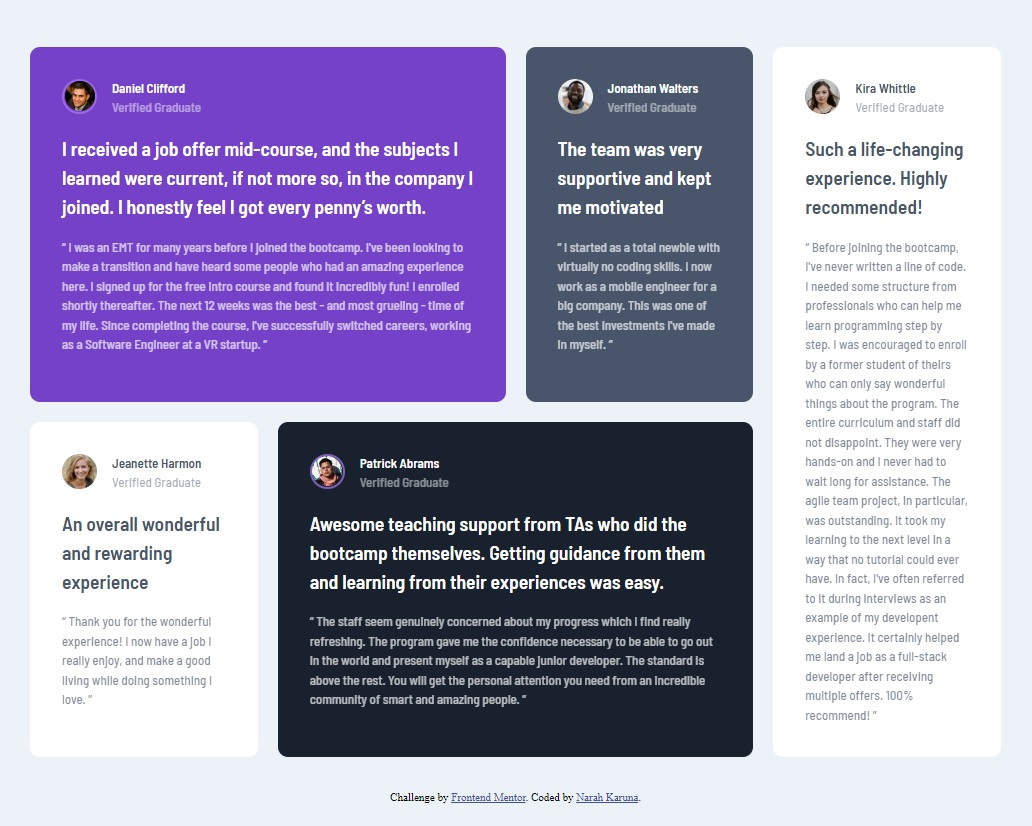
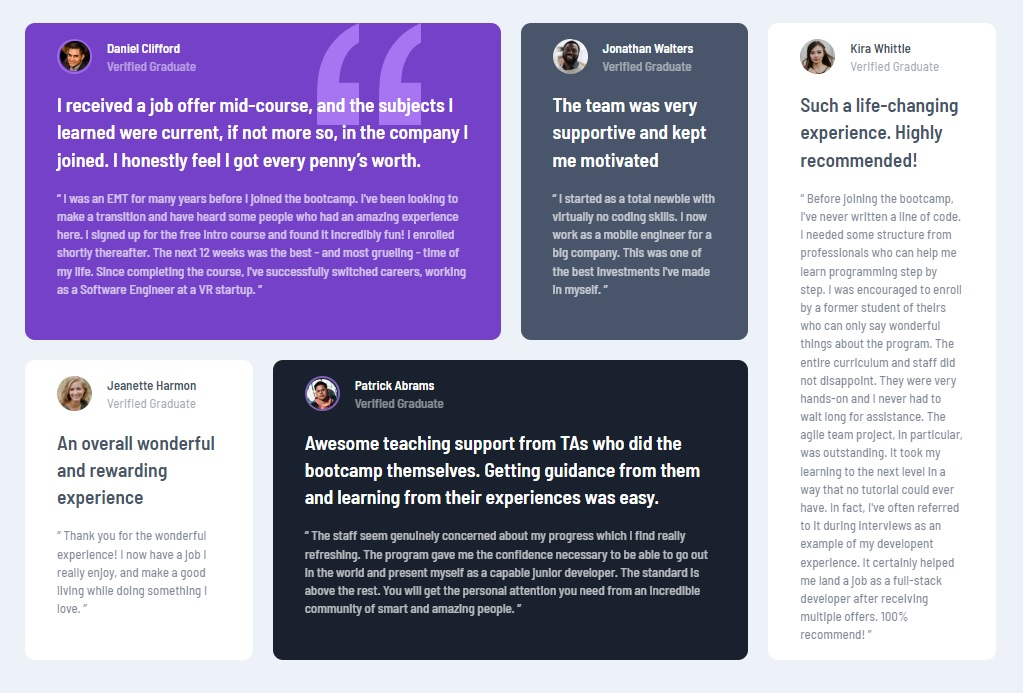
fix bg img

diff --git a/testimonials-grid-section-main/dist/css/styles.css b/testimonials-grid-section-main/dist/css/styles.css
@@ -13,7 +13,7 @@ html {
 }
 
 body {
-  line-height: 1.5;
+  line-height: 1.4;
   -webkit-font-smoothing: antialiased;
   /*font-size: 62.95%;*/
 }
@@ -28,22 +28,111 @@ input, button, textarea, select {
 }
 
 body {
-  background-color: hsl(0deg, 0%, 81%);
+  background-color: hsl(210deg, 46%, 95%);
 }
 
 .grid {
   display: grid;
   grid-template-columns: 1fr;
   grid-template-rows: auto;
-  align-items: center;
   gap: 20px;
   font-family: "Barlow Semi Condensed", sans-serif;
+  margin-top: 20%;
 }
 
 .grid__card {
-  max-width: 100px;
+  max-width: 21.09375rem;
   height: auto;
-  background: hsl(263deg, 55%, 52%);
-  border: 1px solid black;
+  margin-inline: auto;
   font-size: 0.8125rem;
+  font-family: "Barlow Semi Condensed", sans-serif;
+  color: hsl(217deg, 19%, 35%);
+  padding: 2rem;
+  border-radius: 10px;
+  background: hsl(0deg, 0%, 100%);
+}
+.grid__card .grid__card-emphasis {
+  padding: 1rem 0;
+  font-weight: 600;
+}
+.grid__card .grid__card-review {
+  opacity: 0.7;
+}
+
+.grid__card-profile {
+  display: grid;
+  grid-template-columns: 50px 1fr;
+  grid-template-rows: auto;
+}
+.grid__card-profile .card-profile__img {
+  grid-row: 1/3;
+}
+.grid__card-profile .card-profile__img img {
+  width: 35px;
+  height: 35px;
+  border-radius: 50%;
+}
+.grid__card-profile .card-profile__name {
+  font-weight: 600;
+}
+.grid__card-profile .card-profile__verified {
+  opacity: 0.5;
+}
+
+.card__profile--daniel {
+  background-color: hsl(263deg, 55%, 52%);
+  background-image: url("/testimonials-grid-section-main/images/bg-pattern-quotation.svg");
+  background-repeat: no-repeat;
+  background-position: top right 1.25rem;
+  color: hsl(0deg, 0%, 100%);
+}
+.card__profile--daniel .card-profile__img img {
+  border: 2.5px solid hsla(263deg, 85%, 72%, 0.7);
+}
+
+.card__profile--jonathan {
+  background-color: hsl(217deg, 19%, 35%);
+  color: hsl(0deg, 0%, 100%);
+}
+
+.card__profile--patrick {
+  background-color: hsl(219deg, 29%, 14%);
+  color: hsl(0deg, 0%, 100%);
+}
+.card__profile--patrick img {
+  border: 2.5px solid hsla(263deg, 85%, 72%, 0.7);
+}
+
+.attribution {
+  font-size: 11px;
+  text-align: center;
+  margin-top: 2rem;
+}
+
+.attribution a {
+  color: hsl(228deg, 45%, 44%);
+}
+
+@media (min-width: 48rem) {
+  .grid {
+    grid-template-columns: repeat(4, 1fr);
+    grid-template-rows: repeat(2, auto);
+    max-width: 60.6875rem;
+    margin-inline: auto;
+  }
+  .grid__card {
+    max-width: 35rem;
+    padding: 1rem 2rem;
+  }
+  .card__profile--daniel {
+    grid-column: 1/3;
+    background-position: top right 5rem;
+  }
+  .card__profile--kira {
+    grid-column: 4/5;
+    grid-row: 1/3;
+  }
+  .card__profile--patrick {
+    grid-column: 2/4;
+  }
 }/*# sourceMappingURL=styles.css.map */

diff --git a/testimonials-grid-section-main/index.html b/testimonials-grid-section-main/index.html
@@ -12,13 +12,8 @@
   <link rel="preconnect" href="https://fonts.gstatic.com" crossorigin>
   <link href="https://fonts.googleapis.com/css2?family=Barlow+Semi+Condensed:ital,wght@0,500;0,600;1,500;1,600&display=swap" rel="stylesheet">
   
-  <link rel="stylesheet" href="../dist/css/styles.css">
+  <link rel="stylesheet" href="./dist/css/styles.css">
   
-  <!-- Feel free to remove these styles or customise in your own stylesheet 👍 -->
-  <style>
-    .attribution { font-size: 11px; text-align: center; }
-    .attribution a { color: hsl(228, 45%, 44%); }
-  </style>
 </head>
 <body>
   <main class="grid">
@@ -131,10 +126,10 @@
     </section>
 
   </main>
-
+    
   <footer class="attribution">
     Challenge by <a href="https://www.frontendmentor.io?ref=challenge" target="_blank">Frontend Mentor</a>. 
-    Coded by <a href="#">Narah Karuna</a>.
+    Coded by <a href="https://github.com/narahkaruna">Narah Karuna</a>.
   </footer>
 </body>
 </html>

diff --git a/testimonials-grid-section-main/scss/styles.scss b/testimonials-grid-section-main/scss/styles.scss
@@ -59,29 +59,17 @@ body {
 
  .card__profile--daniel {
   background-color: $primary-clr-violet;
+  background-image: url("/testimonials-grid-section-main/images/bg-pattern-quotation.svg");
+  background-repeat: no-repeat;
+  background-position: top right 1.25rem;
   color: $text-color;
-  position: relative;
 
-  /*& .card-profile__img {
-
-    &::after {
-      width: 150px;
-      height: 150px;
-      position: absolute;
-      content: '';
-      background-image: url("../images/bg-pattern-quotation.svg");
-      background-repeat: no-repeat;
-      background-position: top right;
-      background-color: hsla(263, 85%, 72%, 0.7);
-      top: 0;
-      right: 0;
-      z-index: 99;
+    & .card-profile__img {
+      & img {
+        border: 2.5px solid hsla(263, 85%, 72%, 0.7);
+      }
     }
- }*/
 
-    & img {
-      border: 2.5px solid hsla(263, 85%, 72%, 0.7);
-    }
   }
 
   .card__profile--jonathan {

diff --git a/testimonials-grid-section-main/scss/_responsive.scss b/testimonials-grid-section-main/scss/_responsive.scss
@@ -7,11 +7,13 @@
     }
 
     .grid__card {
-        max-width: 35rem;   
+        max-width: 35rem;
+        padding: $spacer $spacer-md;   
     }
 
     .card__profile--daniel {
         grid-column: 1/3;
+        background-position: top right 5rem;
     }
 
     .card__profile--kira {

diff --git a/testimonials-grid-section-main/scss/_boilerplate.scss b/testimonials-grid-section-main/scss/_boilerplate.scss
@@ -13,7 +13,7 @@ html {
   }
   
   body {
-    line-height: 1.5;
+    line-height: 1.4;
     -webkit-font-smoothing: antialiased;
     /*font-size: 62.95%;*/
   }
